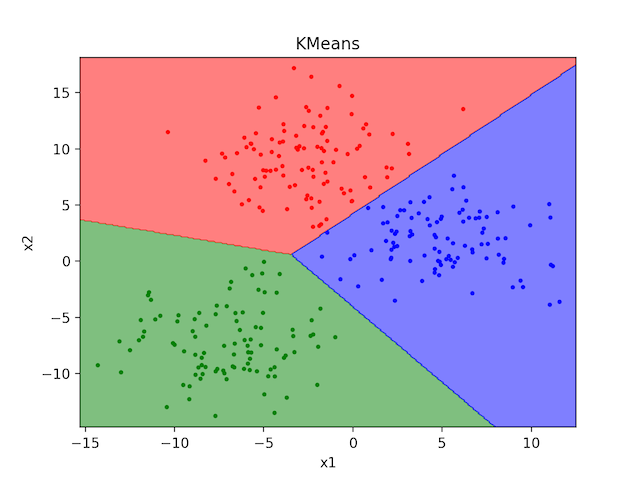
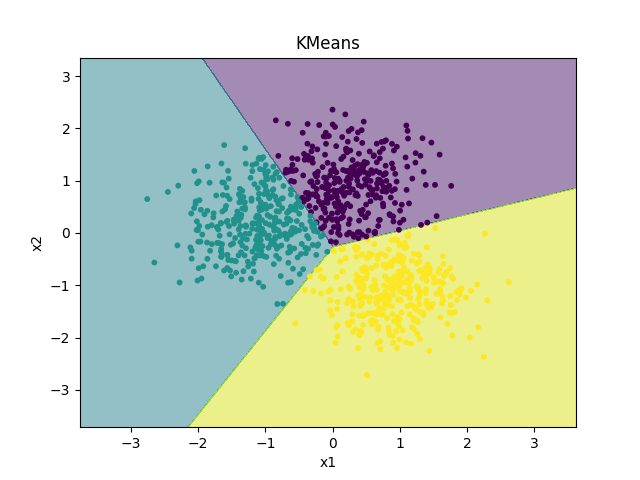
fix(kmeans): anim plot

diff --git a/slmethod/kmeans.py b/slmethod/kmeans.py
@@ -3,6 +3,7 @@ import numpy as np
 import matplotlib.pyplot as plt
 from matplotlib.animation import FuncAnimation
 from slmethod.base import BaseEstimator
+from matplotlib.collections import PathCollection
 
 
 class KMeans(BaseEstimator):
@@ -50,14 +51,16 @@ class KMeans(BaseEstimator):
             self._centers_list.append(np.copy(self._centers))
 
     # 找出点 x 离 k 个中心最近一个聚类
-    def _min_k(self, x):
+    def _min_k(self, x, centers=None):
+        if centers is None:
+            centers = self._centers
         # 欧式距离
-        dists = np.sqrt(np.sum((self._centers - x)**2, axis=1))
+        dists = np.sqrt(np.sum((centers - x)**2, axis=1))
         return np.argmin(dists)
 
-    def _predict(self, X):
+    def _predict(self, X, centers=None):
         X = np.atleast_2d(X)
-        new_clusters = [self._min_k(x) for x in X]
+        new_clusters = [self._min_k(x, centers) for x in X]
         return np.array(new_clusters)
 
     def show_anim(self, name=None):
@@ -70,18 +73,11 @@ class KMeans(BaseEstimator):
         # X 散点图
         self._scatter = ax.scatter(self.X[:, 0],
                                    self.X[:, 1],
-                                   s=30,
+                                   s=10,
                                    c="black",
                                    marker="o",
-                                   label="slmethod kmeans")
-        # 起始 中心
-        ax.scatter(_centers_iter[:, 0], _centers_iter[:, 1], s=50, marker="^")
-        # 结束 中心
-        ax.scatter(self._centers[:, 0],
-                   self._centers[:, 1],
-                   s=300,
-                   marker="*",
-                   color='red')
+                                   label="slmethod kmeans",
+                                   alpha=0.5)
 
         self._lines = []
 
@@ -93,9 +89,16 @@ class KMeans(BaseEstimator):
             line_i = ax.plot(points[:, 0],
                              points[:, 1],
                              color=self._colors[x_i],
-                             linewidth=0.8,
+                             linewidth=0.3,
                              alpha=0.5)
             self._lines.append(line_i)
+
+        _next_centers_iter = self._centers_list[1]
+        # 下一个 中心
+        self._next_iter_centers = ax.scatter(_next_centers_iter[:, 0],
+                                             _next_centers_iter[:, 1],
+                                             s=100,
+                                             color=self._colors[:self.k])
 
         def update(iter):
             _centers_iter = self._centers_list[iter]
@@ -105,23 +108,27 @@ class KMeans(BaseEstimator):
             colors = []
             for i in range(len(self.X)):
                 x = self.X[i]
-                x_i = self.predict(x)[0]
+                x_i = self._predict(x, _centers_iter)[0]
                 points = np.vstack((x, _centers_iter[x_i]))
                 line_i = self._lines[i][0]
                 line_i.set_xdata(points[:, 0])
                 line_i.set_ydata(points[:, 1])
+                line_i.set_color(self._colors[x_i])
                 colors.append(self._colors[x_i])
 
             self._scatter.set_color(colors)
+
+            _next_centers_iter = self._centers_list[(iter + 1) %
+                                                    len(self._centers_list)]
+            self._next_iter_centers.set_offsets(_next_centers_iter)
 
             return self._lines, ax
 
         anim = FuncAnimation(fig,
                              update,
                              frames=len(self._centers_list),
-                             interval=300)
+                             interval=500)
 
         if name:
             anim.save(name, writer="imagemagick")
-        else:
-            plt.show()
+        plt.show()

diff --git a/example/kmeans.py b/example/kmeans.py
@@ -1,15 +1,12 @@
-import random
 from sklearn.datasets import make_blobs
 from slmethod.kmeans import KMeans
 from sklearn.preprocessing import StandardScaler
 
-random.seed(59)
-
-X, y = make_blobs(n_samples=300,
+X, y = make_blobs(n_samples=1000,
                   n_features=2,
                   centers=3,
-                  cluster_std=3,
-                  random_state=42)
+                  cluster_std=1,
+                  random_state=0)
 X = StandardScaler().fit_transform(X)
 print(f"Shape of dataset: {X.shape}")
 
@@ -18,5 +15,5 @@ kmeans.y = kmeans.fit(X)
 print(f"kmeans._centers: {kmeans._centers}")
 print(f"kmeans._centers_list: {kmeans._centers_list}")
 
-kmeans.show_2d()
+kmeans.show_2d("kmeans.png")
 kmeans.show_anim("kmeans.gif")

diff --git a/slmethod/base/base.py b/slmethod/base/base.py
@@ -76,7 +76,7 @@ class BaseEstimator:
 
         self.y = y
 
-    def show_2d(self):
+    def show_2d(self, name=None):
         if (self.X.shape[1] != 2):
             raise ValueError("X must have 2d array.")
 
@@ -97,4 +97,6 @@ class BaseEstimator:
         plt.xlabel("x1")
         plt.ylabel("x2")
         plt.title(self.name)
+        if name:
+            plt.savefig(name)
         plt.show()
